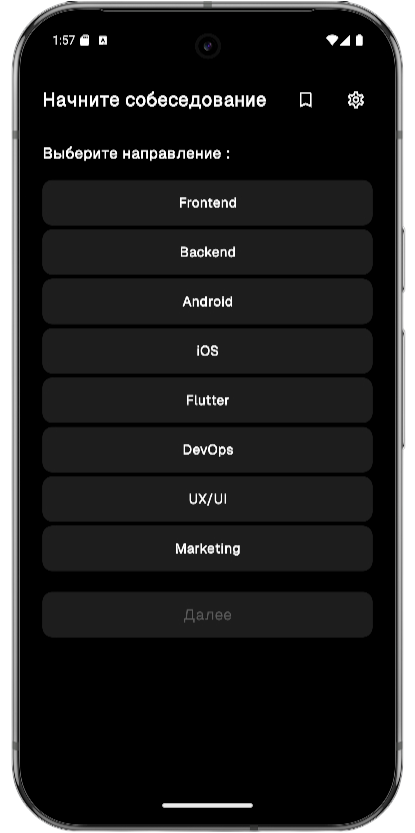
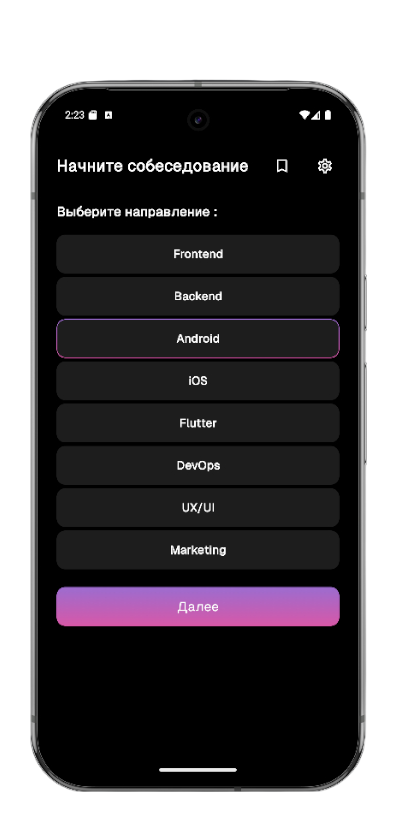
fixAlignMentOfBottomButton/fixedAlignOfBottomButton

diff --git a/README.md b/README.md
@@ -1,15 +1,28 @@
+<p align="center">
+  <img src="screenshots/choose_direction_screen.png" alt="Mockly Logo" width="200">
+</p>
+
 # Mockly: AI Interview Coach
 [![Ask DeepWiki](https://devin.ai/assets/askdeepwiki.png)](https://deepwiki.com/wshngwell/Mockly-AI-Interview-Coach)
 
 Mockly is an AI-powered Android application designed to help you prepare for and ace your technical interviews. Built with Kotlin and Jetpack Compose, the app provides a realistic simulation of an interview session where you can practice answering questions for various IT roles and experience levels. Get instant, intelligent feedback on your voice responses and track your progress.
 
-📱 Скриншоты (Screenshots)
-<p align="center"> <img src="screenshots/choose_direction_screen.png" width="415" alt="Выбор
-направления"> <img src="screenshots/choose_direction_screen.png" width="280" alt="Процесс
-интервью"> <img src="screenshots/choose_direction_screen.png" width="280" alt="Фидбек от ИИ"> </p>
+This project is built using modern Android development practices and libraries.
 
+## 📱 Скриншоты (Screenshots)
+<p align="center"> <img src="screenshots/choose_direction_screen.png" width="200" alt="Выбор
+направления"> <img src="screenshots/choose_direction_screen.png" width="200" alt="Выбор грейда">
+<img src="screenshots/choose_direction_screen.png" width="200" alt="Вопрос загружен"> </p>
+<img src="screenshots/choose_direction_screen.png" width="200" alt="Правильный ответ показан"> </p>
+<img src="screenshots/choose_direction_screen.png" width="200" alt="Идет запись"> </p>
+<img src="screenshots/choose_direction_screen.png" width="200" alt="ИИ фидбек показан"> </p>
+<img src="screenshots/choose_direction_screen.png" width="200" alt="Экран результатов"> </p>
+<img src="screenshots/choose_direction_screen.png" width="200" alt="Экран избранных категорий "> </p>
+<img src="screenshots/choose_direction_screen.png" width="200" alt="Экран избранных вопросов "> </p>
+<img src="screenshots/choose_direction_screen.png" width="200" alt="Экран удаления избранных вопросов "> </p>
+<img src="screenshots/choose_direction_screen.png" width="200" alt="Обработка сетевой ошибки"> </p>
 
-## Features
+## ✨ Основные возможности / Features
 
 *   **AI-Powered Mock Interviews:** Engage in realistic interview sessions with questions dynamically generated by an AI tailored to your chosen field and grade.
 *   **Customizable Practice:** Select your IT specialization (e.g., Android, Backend, Frontend) and experience level (Junior, Middle, Senior, Lead) to focus your practice.
@@ -20,19 +33,15 @@ Mockly is an AI-powered Android application designed to help you prepare for and
 *   **Performance Summary:** At the end of each session, view a results screen summarizing your performance, including your average score and the number of questions answered.
 *   **Personalization:** Customize your experience with a choice of Light/Dark themes and support for both English and Russian languages.
 
-## How It Works
+## 🛠 Technical Stack & Architecture
 
-1.  **Select Direction:** Choose your professional field (e.g., Frontend, Android, DevOps).
-2.  **Select Grade:** Specify your experience level (Junior to Lead).
-3.  **Answer Question:** The app will present an AI-generated question. You can either answer it using your voice or view the correct answer.
-4.  **Record & Submit:** To answer, press the record button. The app will capture your voice for up to two minutes and transcribe it to text.
-5.  **Receive Feedback:** The AI analyzes your transcribed answer and provides a score along with a breakdown of what you did well and what you can improve.
-6.  **Next Steps:** You can save the question for later, view the model answer, or move on to the next question.
-7.  **End Session:** Exit the interview at any time to see your final results.
-
-## Technical Stack & Architecture
-
-This project is built using modern Android development practices and libraries.
+<p align="left">
+  <img src="https://img.shields.io/badge/Architecture-Clean%20+%20MVI-red?style=flat-square" />
+  <img src="https://img.shields.io/badge/UI-Jetpack%20Compose-navy?style=flat-square&logo=jetpackcompose" />
+  <img src="https://img.shields.io/badge/DI-Koin-orange?style=flat-square" />
+  <img src="https://img.shields.io/badge/Network-Retrofit-blue?style=flat-square" />
+  <img src="https://img.shields.io/badge/Database-Room-green?style=flat-square" />
+</p>
 
 *   **Core:** Kotlin, Coroutines + Flow
 *   **UI:** Jetpack Compose
@@ -43,7 +52,17 @@ This project is built using modern Android development practices and libraries.
 *   **Navigation:** Compose Destinations for type-safe navigation between screens.
 *   **AI Integration:** Leverages the OpenRouter API to interact with Google's Gemini models for question generation, transcription, and feedback.
 
-## Setup
+## 💡Как это работает? / How It Works?
+
+1.  **Select Direction:** Choose your professional field (e.g., Frontend, Android, DevOps).
+2.  **Select Grade:** Specify your experience level (Junior to Lead).
+3.  **Answer Question:** The app will present an AI-generated question. You can either answer it using your voice or view the correct answer.
+4.  **Record & Submit:** To answer, press the record button. The app will capture your voice for up to two minutes and transcribe it to text.
+5.  **Receive Feedback:** The AI analyzes your transcribed answer and provides a score along with a breakdown of what you did well and what you can improve.
+6.  **Next Steps:** You can save the question for later, view the model answer, or move on to the next question.
+7.  **End Session:** Exit the interview at any time to see your final results.
+
+## 🚀 Setup
 
 To build and run the project locally, follow these steps:
 
